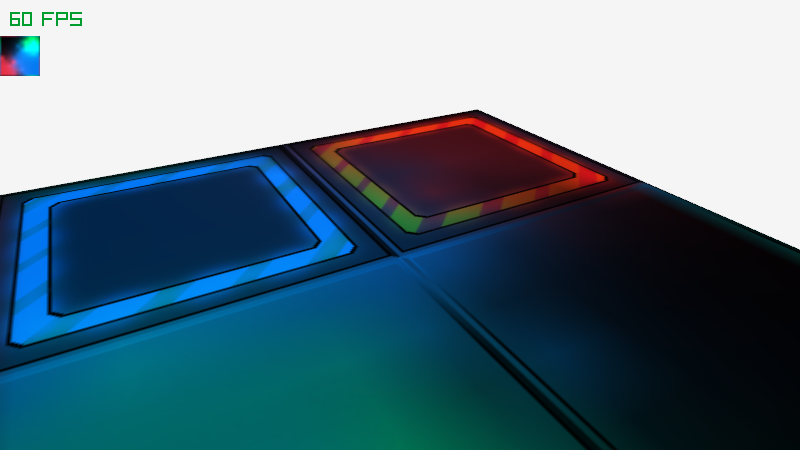
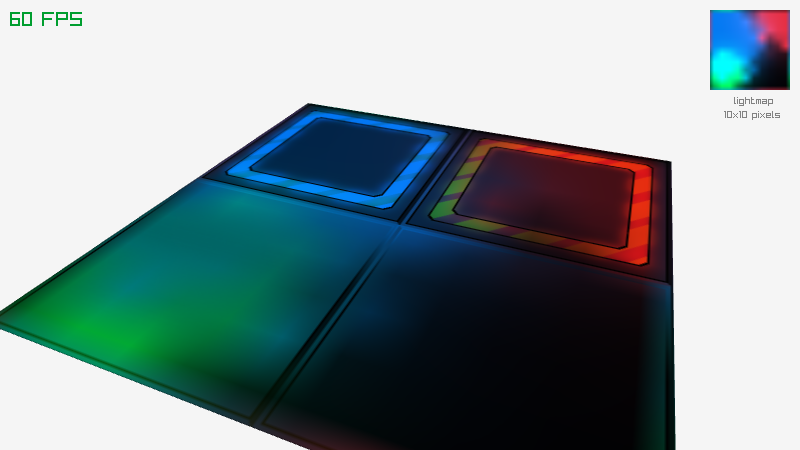
REVIEWED: Ligthmap example

diff --git a/examples/shaders/shaders_lightmap.c b/examples/shaders/shaders_lightmap.c
@@ -46,81 +46,82 @@ int main(void)
 
     // Define the camera to look into our 3d world
     Camera camera = { 0 };
-    camera.position = (Vector3){ 2.0f, 4.0f, 6.0f };    // Camera position
-    camera.target = (Vector3){ 0.0f, 0.5f, 0.0f };      // Camera looking at point
+    camera.position = (Vector3){ 4.0f, 6.0f, 8.0f };    // Camera position
+    camera.target = (Vector3){ 0.0f, 0.0f, 0.0f };      // Camera looking at point
     camera.up = (Vector3){ 0.0f, 1.0f, 0.0f };          // Camera up vector (rotation towards target)
     camera.fovy = 45.0f;                                // Camera field-of-view Y
     camera.projection = CAMERA_PERSPECTIVE;             // Camera projection type
 
-	Mesh mesh = GenMeshPlane((float)MAP_SIZE, (float)MAP_SIZE, 1, 1);
+    Mesh mesh = GenMeshPlane((float)MAP_SIZE, (float)MAP_SIZE, 1, 1);
 
-	// GenMeshPlane doesn't generate texcoords2 so we will upload them separately
-	mesh.texcoords2 = (float *)RL_MALLOC(mesh.vertexCount * 2 * sizeof(float));
+    // GenMeshPlane doesn't generate texcoords2 so we will upload them separately
+    mesh.texcoords2 = (float *)RL_MALLOC(mesh.vertexCount*2*sizeof(float));
 
-	// X						// Y
-	mesh.texcoords2[0] = 0.0f;	mesh.texcoords2[1] = 0.0f;
-	mesh.texcoords2[2] = 1.0f;	mesh.texcoords2[3] = 0.0f;
-	mesh.texcoords2[4] = 0.0f;	mesh.texcoords2[5] = 1.0f;
-	mesh.texcoords2[6] = 1.0f;	mesh.texcoords2[7] = 1.0f;
+    // X                          // Y
+    mesh.texcoords2[0] = 0.0f;    mesh.texcoords2[1] = 0.0f;
+    mesh.texcoords2[2] = 1.0f;    mesh.texcoords2[3] = 0.0f;
+    mesh.texcoords2[4] = 0.0f;    mesh.texcoords2[5] = 1.0f;
+    mesh.texcoords2[6] = 1.0f;    mesh.texcoords2[7] = 1.0f;
 
-	// Load a new texcoords2 attributes buffer
-	mesh.vboId[SHADER_LOC_VERTEX_TEXCOORD02] = rlLoadVertexBuffer(mesh.texcoords2, mesh.vertexCount*2*sizeof(float), false);
-	rlEnableVertexArray(mesh.vaoId);
-	// Index 5 is for texcoords2
-	rlSetVertexAttribute(5, 2, RL_FLOAT, 0, 0, 0);
-	rlEnableVertexAttribute(5);
-	rlDisableVertexArray();
+    // Load a new texcoords2 attributes buffer
+    mesh.vboId[SHADER_LOC_VERTEX_TEXCOORD02] = rlLoadVertexBuffer(mesh.texcoords2, mesh.vertexCount*2*sizeof(float), false);
+    rlEnableVertexArray(mesh.vaoId);
+    
+    // Index 5 is for texcoords2
+    rlSetVertexAttribute(5, 2, RL_FLOAT, 0, 0, 0);
+    rlEnableVertexAttribute(5);
+    rlDisableVertexArray();
 
     // Load lightmap shader
     Shader shader = LoadShader(TextFormat("resources/shaders/glsl%i/lightmap.vs", GLSL_VERSION),
                                TextFormat("resources/shaders/glsl%i/lightmap.fs", GLSL_VERSION));
 
-	Texture texture = LoadTexture("resources/cubicmap_atlas.png");
-	Texture light = LoadTexture("resources/spark_flame.png");
+    Texture texture = LoadTexture("resources/cubicmap_atlas.png");
+    Texture light = LoadTexture("resources/spark_flame.png");
 
-	GenTextureMipmaps(&texture);
-	SetTextureFilter(texture, TEXTURE_FILTER_TRILINEAR);
+    GenTextureMipmaps(&texture);
+    SetTextureFilter(texture, TEXTURE_FILTER_TRILINEAR);
 
-	RenderTexture lightmap = LoadRenderTexture(MAP_SIZE, MAP_SIZE);
+    RenderTexture lightmap = LoadRenderTexture(MAP_SIZE, MAP_SIZE);
 
-	SetTextureFilter(lightmap.texture, TEXTURE_FILTER_TRILINEAR);
+    SetTextureFilter(lightmap.texture, TEXTURE_FILTER_TRILINEAR);
 
- 	Material material = LoadMaterialDefault();
+    Material material = LoadMaterialDefault();
     material.shader = shader;
     material.maps[MATERIAL_MAP_ALBEDO].texture = texture;
     material.maps[MATERIAL_MAP_METALNESS].texture = lightmap.texture;
 
-	// Drawing to lightmap
-	BeginTextureMode(lightmap);
-		ClearBackground(BLACK);
+    // Drawing to lightmap
+    BeginTextureMode(lightmap);
+        ClearBackground(BLACK);
 
-		BeginBlendMode(BLEND_ADDITIVE);
-			DrawTexturePro(
-				light,
-				(Rectangle){ 0, 0, light.width, light.height },
-				(Rectangle){ 0, 0, 20, 20 },
-				(Vector2){ 10.0, 10.0 },
-				0.0,
-				RED
-			);
-			DrawTexturePro(
-				light,
-				(Rectangle){ 0, 0, light.width, light.height },
-				(Rectangle){ 8, 4, 20, 20 },
-				(Vector2){ 10.0, 10.0 },
-				0.0,
-				BLUE
-			);
-			DrawTexturePro(
-				light,
-				(Rectangle){ 0, 0, light.width, light.height },
-				(Rectangle){ 8, 8, 10, 10 },
-				(Vector2){ 5.0, 5.0 },
-				0.0,
-				GREEN
-			);
-		BeginBlendMode(BLEND_ALPHA);
-	EndTextureMode();
+        BeginBlendMode(BLEND_ADDITIVE);
+            DrawTexturePro(
+                light,
+                (Rectangle){ 0, 0, light.width, light.height },
+                (Rectangle){ 0, 0, 20, 20 },
+                (Vector2){ 10.0, 10.0 },
+                0.0,
+                RED
+            );
+            DrawTexturePro(
+                light,
+                (Rectangle){ 0, 0, light.width, light.height },
+                (Rectangle){ 8, 4, 20, 20 },
+                (Vector2){ 10.0, 10.0 },
+                0.0,
+                BLUE
+            );
+            DrawTexturePro(
+                light,
+                (Rectangle){ 0, 0, light.width, light.height },
+                (Rectangle){ 8, 8, 10, 10 },
+                (Vector2){ 5.0, 5.0 },
+                0.0,
+                GREEN
+            );
+        BeginBlendMode(BLEND_ALPHA);
+    EndTextureMode();
 
     SetTargetFPS(60);                   // Set our game to run at 60 frames-per-second
     //--------------------------------------------------------------------------------------
@@ -139,26 +140,29 @@ int main(void)
             ClearBackground(RAYWHITE);
 
             BeginMode3D(camera);
-				DrawMesh(mesh, material, MatrixIdentity());
+                DrawMesh(mesh, material, MatrixIdentity());
             EndMode3D();
 
             DrawFPS(10, 10);
 
-			DrawTexturePro(
-				lightmap.texture,
-				(Rectangle){ 0, 0, MAP_SIZE, MAP_SIZE },
-				(Rectangle){ 0, 36, MAP_SIZE * 4, MAP_SIZE * 4 },
-				(Vector2){ 0.0, 0.0 },
-				0.0,
-				WHITE
-			);
+            DrawTexturePro(
+                lightmap.texture,
+                (Rectangle){ 0, 0, -MAP_SIZE, -MAP_SIZE },
+                (Rectangle){ GetRenderWidth() - MAP_SIZE*8 - 10, 10, MAP_SIZE*8, MAP_SIZE*8 },
+                (Vector2){ 0.0, 0.0 },
+                0.0,
+                WHITE);
+                
+            DrawText("lightmap", GetRenderWidth() - 66, 16 + MAP_SIZE*8, 10, GRAY);
+            DrawText("10x10 pixels", GetRenderWidth() - 76, 30 + MAP_SIZE*8, 10, GRAY);
+                
         EndDrawing();
         //----------------------------------------------------------------------------------
     }
 
     // De-Initialization
     //--------------------------------------------------------------------------------------
-    UnloadMesh(mesh);     	// Unload the mesh
+    UnloadMesh(mesh);       // Unload the mesh
     UnloadShader(shader);   // Unload shader
 
     CloseWindow();          // Close window and OpenGL context
